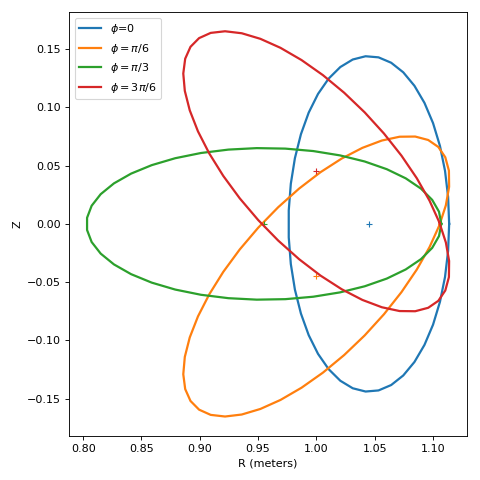
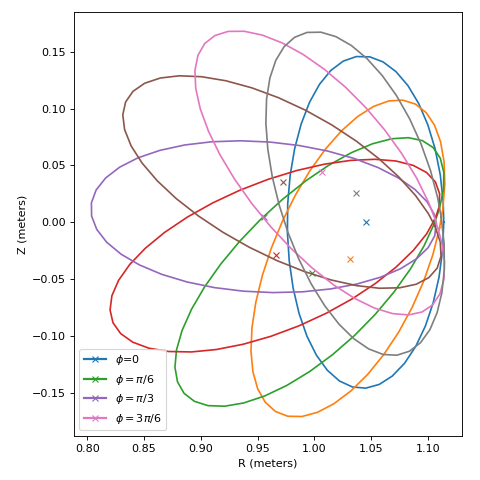
Complete refactoring of the plot script; Now use R_2D and Z_2D as outputted from Frenet_to_cylindrical
Issues:
- R_2D and Z_2D are only accurate to first order. Need to implement second order Frenet_to_cylindrical to have  2nd order surfaces
- The axis location is computed as the mean phi0 over the given poloidal plane. Perhaps there's a better way?
- Still does not compute field lines

diff --git a/qsc/plot.py b/qsc/plot.py
@@ -3,12 +3,60 @@ This module contains a function to plot a near-axis surface.
 """
 
 import numpy as np
-from scipy.interpolate import CubicSpline as spline
 import matplotlib.pyplot as plt
 from matplotlib import cm
-from matplotlib.colors import Normalize
+import matplotlib.colors as clr
+from scipy.interpolate import interp2d
+from matplotlib.colors import LightSource
 
-def plot(self,r=0.14,nphi=80,ntheta=50,nsections=4,save=None,azim_default=None,**kwargs):
+def set_axes_equal(ax):
+    '''
+    Make axes of 3D plot have equal scale so that spheres appear as spheres,
+    cubes as cubes, etc..  This is one possible solution to Matplotlib's
+    ax.set_aspect('equal') and ax.axis('equal') not working for 3D.
+
+    Input
+      ax: a matplotlib axis, e.g., as output from plt.gca().
+    '''
+    x_limits = ax.get_xlim3d()
+    y_limits = ax.get_ylim3d()
+    z_limits = ax.get_zlim3d()
+
+    x_range = abs(x_limits[1] - x_limits[0])
+    x_middle = np.mean(x_limits)
+    y_range = abs(y_limits[1] - y_limits[0])
+    y_middle = np.mean(y_limits)
+    z_range = abs(z_limits[1] - z_limits[0])
+    z_middle = np.mean(z_limits)
+
+    # The plot bounding box is a sphere in the sense of the infinity
+    # norm, hence call half the max range the plot radius.
+    plot_radius = 0.5*max([x_range, y_range, z_range])
+
+    ax.set_xlim3d([x_middle - plot_radius, x_middle + plot_radius])
+    ax.set_ylim3d([y_middle - plot_radius, y_middle + plot_radius])
+    ax.set_zlim3d([z_middle - plot_radius, z_middle + plot_radius])
+
+def createsubplot(ax, R_2D, Z_2D, nfp, colormap, elev=90, azim=45, dist=7, **kwargs):
+    '''
+    Construct the surface over a phi=[0,2*pi] domain given
+    a surface in cylindrical coordinates R_2D, Z_2D with
+    phi=[0,2*pi/Nfp]. A matplotlib figure with elements fig, ax
+    must have been previously created and ax is given as input.
+    '''
+    for i in range(nfp):
+        phi = np.linspace(i*2*np.pi/nfp,(i+1)*2*np.pi/nfp,R_2D.shape[1])
+        x_2D = R_2D*np.cos(phi)
+        y_2D = R_2D*np.sin(phi)
+        z_2D = Z_2D
+        ax.plot_surface(x_2D, y_2D, z_2D, facecolors = colormap, rstride=1, cstride=1, antialiased=False, linewidth=0, alpha=1, shade=False, **kwargs)
+    set_axes_equal(ax)
+    ax.set_axis_off()
+    ax.dist = dist
+    ax.elev = elev
+    ax.azim = azim
+
+def plot(self,r=0.1,ntheta_plot=40,nphi_plot=130,ntheta_fourier=16,nsections=8,save=None, colormap=None, azim_default=None,**kwargs):
     """
     Creates 2 matplotlib figures:
         - A plot with several poloidal planes at the specified radius r with the
@@ -17,13 +65,15 @@ def plot(self,r=0.14,nphi=80,ntheta=50,nsections=4,save=None,azim_default=None,*
          on the surface using plot_surface
     Args:
       r (float): near-axis radius r where to create the surface
-      nphi   (int): Number of grid points in the toroidal angle.
-      ntheta (int): Number of grid points in the poloidal angle.
+      ntheta_plot (int): Number of grid points to plot in the poloidal angle.
+      nphi_plot   (int): Number of grid points to plot in the toroidal angle.
+      ntheta_fourier (int): Resolution in the Fourier transform to cylindrical coordinates
       nsections (int): Number of poloidal planes to show.
       save (str): Filename prefix for the png files to save
-      azim_default: Default azimuthal angle for the three subplots
-       in the 3D surface plot
+      colormap (cmap): Custom colormap for the 3D plots
+      azim_default: Default azimuthal angle for the three subplots in the 3D surface plot
       kwargs: Any additional key-value pairs to pass to matplotlib's plot_surface.
+
     This function can generate figures like this:
 
     .. image:: 3dplot.png
@@ -33,82 +83,33 @@ def plot(self,r=0.14,nphi=80,ntheta=50,nsections=4,save=None,azim_default=None,*
        :width: 200
     """
 
-    # Create periodic spline interpolants for the quantities used in the plots
-    def Raxisf(phi): return sum([self.rc[i]*np.cos(i*self.nfp*phi) for i in range(len(self.rc))])
-    def Zaxisf(phi): return sum([self.zs[i]*np.sin(i*self.nfp*phi) for i in range(len(self.zs))])
-    def convert_to_spline(phi,array):
-        sp=spline(np.append(self.phi,2*np.pi/self.nfp), np.append(array,array[0]), bc_type='periodic')
-        return sp(np.mod(phi,2*np.pi/self.nfp))
-    def tangentR(phi):    return convert_to_spline(phi,self.tangent_cylindrical[:,0])
-    def tangentphi(phi):  return convert_to_spline(phi,self.tangent_cylindrical[:,1])
-    def tangentZ(phi):    return convert_to_spline(phi,self.tangent_cylindrical[:,2])
-    def normalR(phi):     return convert_to_spline(phi,self.normal_cylindrical[:,0])
-    def normalphi(phi):   return convert_to_spline(phi,self.normal_cylindrical[:,1])
-    def normalZ(phi):     return convert_to_spline(phi,self.normal_cylindrical[:,2])
-    def binormalR(phi):   return convert_to_spline(phi,self.binormal_cylindrical[:,0])
-    def binormalphi(phi): return convert_to_spline(phi,self.binormal_cylindrical[:,1])
-    def binormalZ(phi):   return convert_to_spline(phi,self.binormal_cylindrical[:,2])
-    def X1cF(phi): return convert_to_spline(phi,self.X1c)
-    def X1sF(phi): return convert_to_spline(phi,self.X1s)
-    def Y1cF(phi): return convert_to_spline(phi,self.Y1c)
-    def Y1sF(phi): return convert_to_spline(phi,self.Y1s)
-    def X20F(phi): return convert_to_spline(phi,self.X20)
-    def X2cF(phi): return convert_to_spline(phi,self.X2c)
-    def X2sF(phi): return convert_to_spline(phi,self.X2s)
-    def Y20F(phi): return convert_to_spline(phi,self.Y20)
-    def Y2cF(phi): return convert_to_spline(phi,self.Y2c)
-    def Y2sF(phi): return convert_to_spline(phi,self.Y2s)
-    def Z20F(phi): return convert_to_spline(phi,self.Z20)
-    def Z2cF(phi): return convert_to_spline(phi,self.Z2c)
-    def Z2sF(phi): return convert_to_spline(phi,self.Z2s)
-    def B20F(phi): return convert_to_spline(phi,self.B20)
-    # Perform the transformation from a near-axis position vector
-    # to cylindrical coordinates
-    def rSurf(r,phi,theta):
-        thetaN = theta-(self.iota-self.iotaN)*phi
-        r0 = Raxisf(phi)
-        r1 = (X1cF(phi)*np.cos(thetaN)+X1sF(phi)*np.sin(thetaN))*normalR(phi)\
-            +(Y1cF(phi)*np.cos(thetaN)+Y1sF(phi)*np.sin(thetaN))*binormalR(phi)
-        if self.order!='r1':
-            r2 = (X20F(phi)+X2cF(phi)*np.cos(2*thetaN)+X2sF(phi)*np.sin(2*thetaN))*normalR(phi)\
-                +(Y20F(phi)+Y2cF(phi)*np.cos(2*thetaN)+Y2sF(phi)*np.sin(2*thetaN))*binormalR(phi)\
-                +(Z20F(phi)+Z2cF(phi)*np.cos(2*thetaN)+Z2sF(phi)*np.sin(2*thetaN))*tangentR(phi)
-        else:
-            r2 = 0
-        return r0+r*r1+r**2*r2
-    def phiSurf(r,phi,theta):
-        thetaN = theta-(self.iota-self.iotaN)*phi
-        phi0 = Raxisf(phi)
-        phi1 = (X1cF(phi)*np.cos(thetaN)+X1sF(phi)*np.sin(thetaN))*normalphi(phi)\
-              +(Y1cF(phi)*np.cos(thetaN)+Y1sF(phi)*np.sin(thetaN))*binormalphi(phi)
-        if self.order!='r1':
-            phi2 = (X20F(phi)+X2cF(phi)*np.cos(2*thetaN)+X2sF(phi)*np.sin(2*thetaN))*normalphi(phi)\
-                  +(Y20F(phi)+Y2cF(phi)*np.cos(2*thetaN)+Y2sF(phi)*np.sin(2*thetaN))*binormalphi(phi)\
-                  +(Z20F(phi)+Z2cF(phi)*np.cos(2*thetaN)+Z2sF(phi)*np.sin(2*thetaN))*tangentphi(phi)
-        else:
-            phi2 = 0
-        return phi0+r*phi1+r**2*phi2
-    def zSurf(r,phi,theta):
-        thetaN = theta-(self.iota-self.iotaN)*phi
-        z0 = Zaxisf(phi)
-        z1 = (X1cF(phi)*np.cos(thetaN)+X1sF(phi)*np.sin(thetaN))*normalZ(phi)\
-            +(Y1cF(phi)*np.cos(thetaN)+Y1sF(phi)*np.sin(thetaN))*binormalZ(phi)
-        if self.order!='r1':
-            z2 = (X20F(phi)+X2cF(phi)*np.cos(2*thetaN)+X2sF(phi)*np.sin(2*thetaN))*normalZ(phi)\
-                +(Y20F(phi)+Y2cF(phi)*np.cos(2*thetaN)+Y2sF(phi)*np.sin(2*thetaN))*binormalZ(phi)\
-                +(Z20F(phi)+Z2cF(phi)*np.cos(2*thetaN)+Z2sF(phi)*np.sin(2*thetaN))*tangentZ(phi)
-        else:
-            z2 = 0
-        return z0+r*z1+r**2*z2
+    # Obtain the surface shape in cylindrical coordinates
+    R_2D, Z_2D, phi0_2D = self.Frenet_to_cylindrical(r, ntheta_fourier)
+    # Make it periodic
+    R_2D = np.append(R_2D,[R_2D[0,:]],0)
+    R_2D = np.append(R_2D,np.array([R_2D[:,0]]).transpose(),1)
+    Z_2D = np.append(Z_2D,[Z_2D[0,:]],0)
+    Z_2D = np.append(Z_2D,np.array([Z_2D[:,0]]).transpose(),1)
+    phi0_2D = np.append(phi0_2D,[phi0_2D[0,:]],0)
+    phi0_2D = np.append(phi0_2D,np.array([phi0_2D[:,0]]).transpose(),1)
+    # Arrays of original thetas and phis
+    theta1d = np.linspace(0, 2 * np.pi, ntheta_fourier+1, endpoint=False)
+    phi1d   = np.linspace(0, 2 * np.pi / self.nfp, self.nphi+1, endpoint=False)
+    # Arrays of thetas and phis for plots
+    theta1dplot  = np.linspace(0, 2 * np.pi, ntheta_plot)
+    phi1dplot_RZ = np.linspace(0, 2 * np.pi / self.nfp, nsections, endpoint=False)
+    phi1dplot    = np.linspace(0, 2 * np.pi / self.nfp, nphi_plot)
+    # Splines interpolants of R_2D and Z_2D
+    R_2D_spline = interp2d(phi1d, theta1d, R_2D, kind='cubic')
+    Z_2D_spline = interp2d(phi1d, theta1d, Z_2D, kind='cubic')
+    phi0_2D_spline = interp2d(phi1d, theta1d, phi0_2D, kind='cubic')
+    R_2D_interp = R_2D_spline(phi1dplot,theta1dplot)
+    Z_2D_interp = Z_2D_spline(phi1dplot,theta1dplot)
 
-    # Create one plot with several cuts at different toroidal planes
+    ## Poloidal plot
     fig = plt.figure(figsize=(6, 6), dpi=80)
     ax  = plt.gca()
-    theta = np.linspace(0,2*np.pi,ntheta)
-    phi1D = np.linspace(0,2*np.pi/self.nfp,nsections,endpoint=False)
-    for phi in phi1D:
-        rSurfi=rSurf(r,phi,theta)
-        zSurfi=zSurf(r,phi,theta)
+    for phi in phi1dplot_RZ:
         if phi*self.nfp/(2*np.pi)==0:
             label = r'$\phi$=0'
         elif phi*self.nfp/(2*np.pi)==0.25:
@@ -120,61 +121,58 @@ def plot(self,r=0.14,nphi=80,ntheta=50,nsections=4,save=None,azim_default=None,*
         else:
             label = '_nolegend_'
         color = next(ax._get_lines.prop_cycler)['color']
-        plt.plot(rSurfi,zSurfi,linewidth=2,label=label,color=color)
-        plt.plot(Raxisf(phi),Zaxisf(phi),'b+',color=color)
+        plt.plot(self.R0_func(np.mean(phi0_2D_spline(phi,theta1dplot))),self.Z0_func(np.mean(phi0_2D_spline(phi,theta1dplot))),marker="x",linewidth=2,label=label,color=color)
+        plt.plot(R_2D_spline(phi,theta1dplot).flatten(),Z_2D_spline(phi,theta1dplot).flatten(),color=color)
     plt.xlabel('R (meters)')
-    plt.ylabel('Z')
+    plt.ylabel('Z (meters)')
     plt.legend()
     plt.tight_layout()
     ax.set_aspect('equal')
     if save!=None:
         fig.savefig(save+'_poloidal.png')
+    # plt.show()
+    # exit()
 
-    # Create 3D plot
-    def Bf(r,phi,theta):
-        thetaN = theta-(self.iota-self.iotaN)*phi
-        if self.order=='r1':
-            return self.B0*(1+r*self.etabar*np.cos(thetaN))
-        else:
-            return self.B0*(1+r*self.etabar*np.cos(thetaN))+r*r*(B20F(phi)+self.B2c*np.cos(thetaN)+self.B2s*np.sin(thetaN))
-    theta1d = np.linspace(0, 2 * np.pi, ntheta)
-    phi1d   = np.linspace(0, 2 * np.pi, nphi)
-    phi2D, theta2D = np.meshgrid(phi1d, theta1d)
-    rs=rSurf(r,phi2D,theta2D)
-    phis=phiSurf(r,phi2D,theta2D)
-    Zsurf=zSurf(r,phi2D,theta2D)
-    Xsurf=rs*np.cos(phi2D)-phis*np.sin(phi2D)
-    Ysurf=rs*np.sin(phi2D)+phis*np.cos(phi2D)
-    Bmag=Bf(r,phi2D,theta2D)
-    norm = Normalize(vmin=Bmag.min(), vmax=Bmag.max())
-    def create_subplot(elev=90,azim=45,dist=7):
-        ax.plot_surface(Xsurf, Ysurf, Zsurf, facecolors = cm.plasma(norm(Bmag)), rstride=1, cstride=1, antialiased=False, linewidth=0, alpha=1, **kwargs)
-        ax.auto_scale_xyz([Xsurf.min(), Xsurf.max()], [Xsurf.min(), Xsurf.max()], [Xsurf.min(), Xsurf.max()])
-        ax.set_axis_off()
-        ax.dist = dist
-        ax.elev = elev
-        ax.azim = azim
+    ## 3D plot
+    # Set the default azimuthal angle of view in the 3D plot
     if azim_default == None:
         if self.helicity == 0:
-            azim_default = 135
+            azim_default = 90
         else:
-            azim_default = 0
+            azim_default = 45
+    # Define the magnetic field modulus and create its theta,phi array
+    def Bf(r,theta,phi):
+        thetaN = theta-(self.iota-self.iotaN)*phi
+        return self.B0*(1+r*self.etabar*np.cos(thetaN))
+    phi2D, theta2D = np.meshgrid(phi1dplot,theta1dplot)
+    Bmag=Bf(r,theta2D,phi2D)
+    norm = clr.Normalize(vmin=Bmag.min(), vmax=Bmag.max())
+    # Create a color map similar to the plots in the quasisymmetry
+    # papers 2019-2021 if a colormap is not provided
+    if colormap==None:
+        cmap = clr.LinearSegmentedColormap.from_list('qs_papers',['#4423bb','#4940f4','#2e6dff','#0097f2','#00bacc','#00cb93','#00cb93','#7ccd30','#fbdc00','#f9fc00'], N=256)
+        ls = LightSource(azdeg=0, altdeg=10)
+        cmap_plot = ls.shade(Bmag, cmap, norm=norm)
+        # cmap_plot = cmap(norm(Bmag))
+    # Create the 3D figure
     fig = plt.figure(constrained_layout=False, figsize=(4.5, 8))
     gs1 = fig.add_gridspec(nrows=3, ncols=1, top=1.02, bottom=-0.3, left=0., right=0.85, hspace=0.0, wspace=0.0)
     ax = fig.add_subplot(gs1[0, 0], projection='3d')
-    create_subplot(90,azim_default)
+    createsubplot(ax, R_2D_interp, Z_2D_interp, self.nfp, cmap_plot, elev=90, azim=azim_default, **kwargs)
+    # create_subplot(90,azim_default)
     gs2 = fig.add_gridspec(nrows=3, ncols=1, top=1.09, bottom=-0.3, left=0., right=0.85, hspace=0.0, wspace=0.0)
     ax = fig.add_subplot(gs2[1, 0], projection='3d')
-    create_subplot(30,azim_default)
+    createsubplot(ax, R_2D_interp, Z_2D_interp, self.nfp, cmap_plot, elev=30, azim=azim_default, **kwargs)
+    # create_subplot(30,azim_default)
     gs3 = fig.add_gridspec(nrows=3, ncols=1, top=1.12, bottom=-0.15, left=0., right=0.85, hspace=0.0, wspace=0.0)
     ax = fig.add_subplot(gs3[2, 0], projection='3d')
-    create_subplot(0,azim_default)
+    createsubplot(ax, R_2D_interp, Z_2D_interp, self.nfp, cmap_plot, elev=5,  azim=azim_default, **kwargs)
+    # create_subplot(0,azim_default)
     cbar_ax = fig.add_axes([0.85, 0.2, 0.03, 0.6])
-    m = cm.ScalarMappable(cmap=plt.cm.plasma, norm=norm)
+    m = cm.ScalarMappable(cmap=cmap, norm=norm)
     m.set_array([])
     cbar = plt.colorbar(m, cax=cbar_ax)
     cbar.ax.set_title(r'$|B| [T]$')
     if save!=None:
         fig.savefig(save+'3D.png')
-
     plt.show()

diff --git a/qsc/Frenet_to_cylindrical.py b/qsc/Frenet_to_cylindrical.py
@@ -60,9 +60,9 @@ def Frenet_to_cylindrical_1_point(phi0, arr):
 
     Args:
         phi0: toroidal angle on the axis
-        X_spline: spline interpolant for X
-        Y_spline: spline interpolant for X
-        arr: Array with 8 entries corresponding to
+        arr: Array with 8 entries corresponding to these entries at phi0
+            X_spline: spline interpolant for X
+            Y_spline: spline interpolant for X
             R0_func: radial coordinate R0(phi0) of the axis shape
             Z0_func: vertical coordinate R0(phi0) of the axis shape
             normal_R_spline: spline interpolant for the R component of the axis normal vector

diff --git a/qsc/tests/test_plot.py b/qsc/tests/test_plot.py
@@ -10,7 +10,9 @@ class PlotTests(unittest.TestCase):
         A call to plot() to check that it works
         """
         stel=Qsc.from_paper("r1 section 5.1")
-        stel.plot()
+        stel.plot(r=0.1, save='')
+        stel=Qsc.from_paper("r1 section 5.2")
+        stel.plot(r=0.03)
         stel=Qsc.from_paper(2)
         stel.plot()
         stel=Qsc.from_paper(4)
